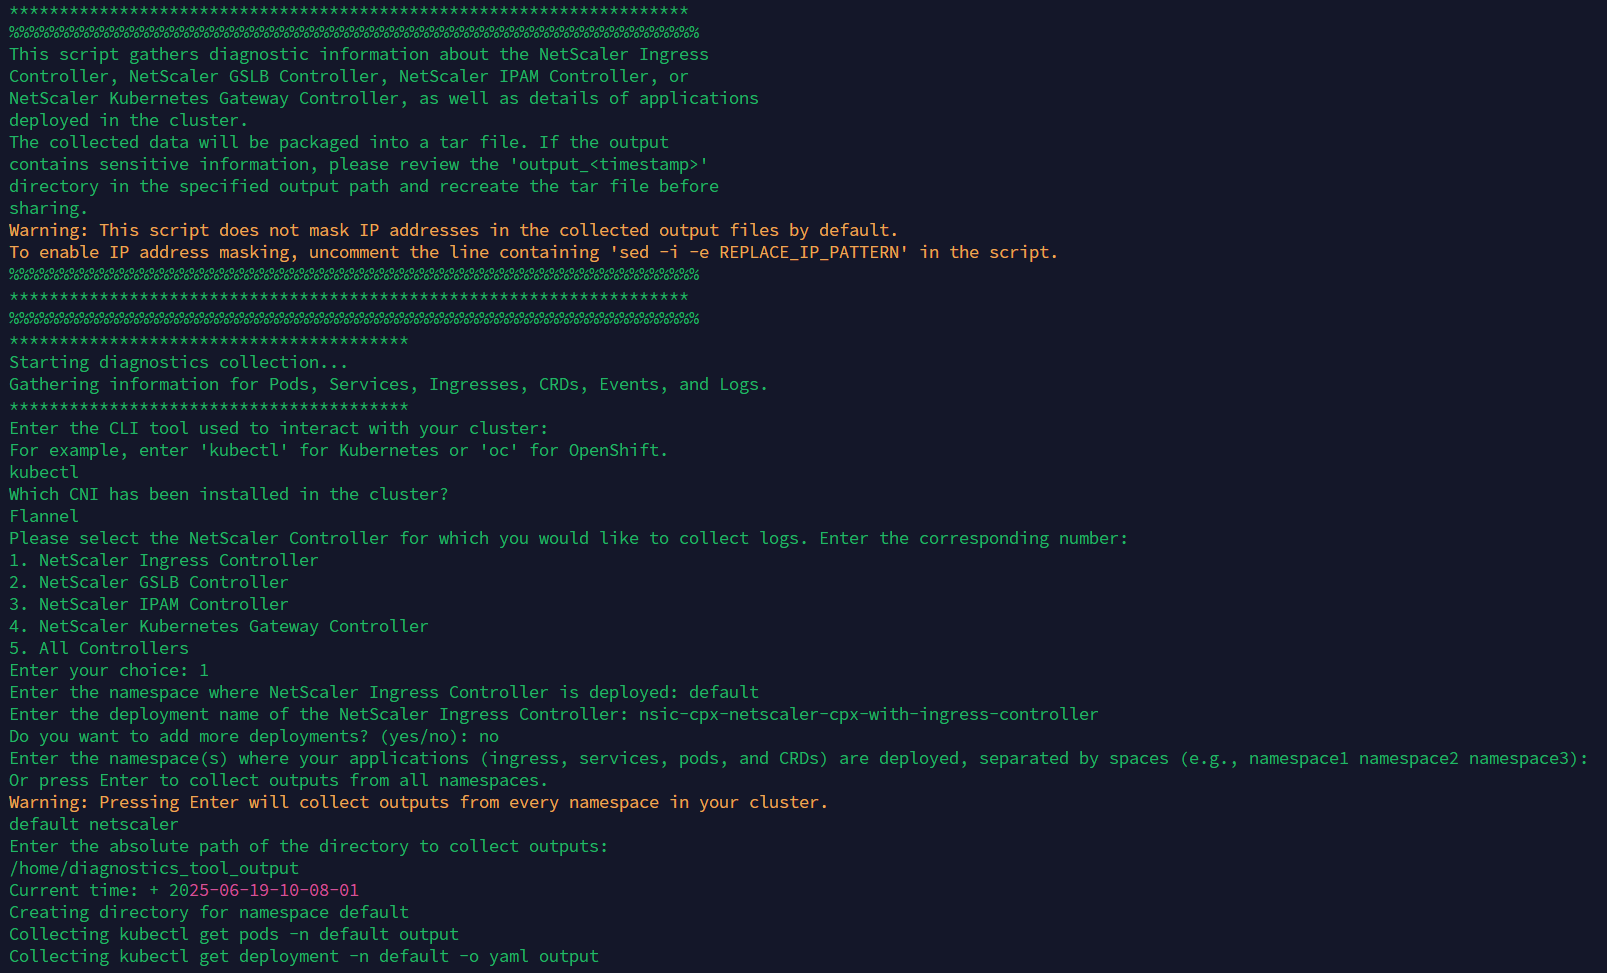
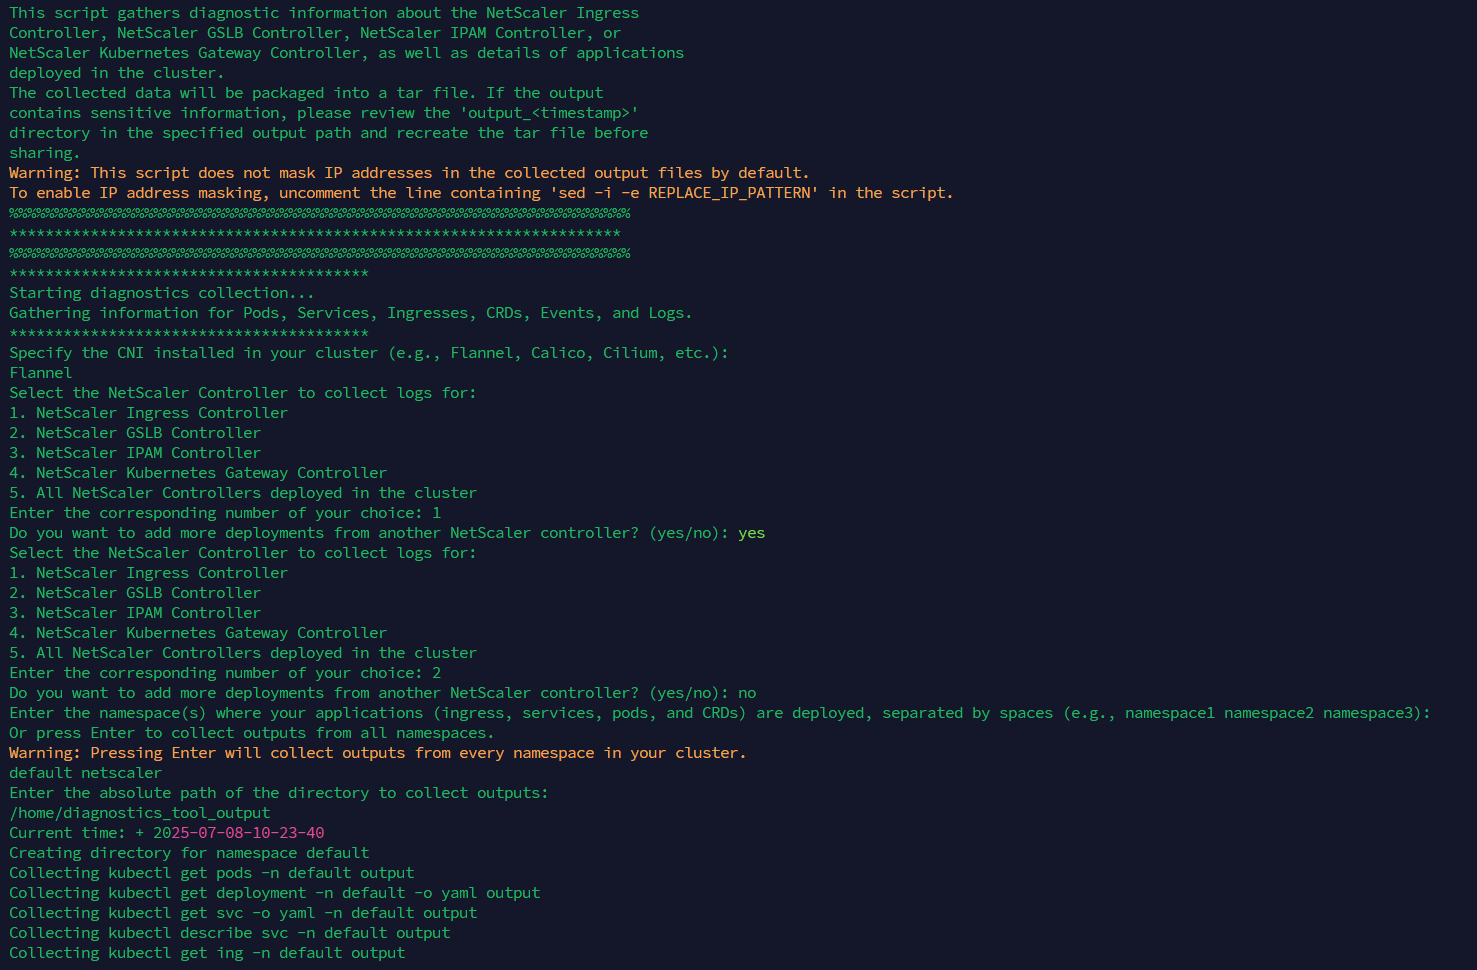
Updating the diagnostic tool

diff --git a/diagnostics_tool/README.md b/diagnostics_tool/README.md
@@ -1,8 +1,8 @@
 # Troubleshooting NetScaler Controller and Applications Deployed in a Kubernetes Cluster
 
-This diagnostic tool is a shell script designed to gather information related to the NetScaler Ingress Controller, NetScaler GSLB Controller, or NetScaler Kubernetes Gateway Controller, as well as applications deployed within a Kubernetes cluster. Based on the input provided by the user, the appropriate NetScaler Controller is selected. 
+This diagnostic tool is a shell script designed to collect information from NetScaler controllers namely the NetScaler Ingress Controller, NetScaler GSLB Controller, NetScaler IPAM Controller, and NetScaler Kubernetes Gateway Controller as well as from applications deployed in the cluster. Users can specify which NetScaler controller logs to collect or, choose to gather logs from all available controllers. Based on the input provided by the user, the appropriate NetScaler Controller is selected. 
 
-This tool requires the namespace, CNI, and output directory path as inputs to extract the necessary information. The collected data is stored in a tar file format within the specified output directory. If any sensitive information is identified that should not be shared, users are advised to review the `output_<timestamp>` directory under the specified output directory path and recreate the tar file before sharing.
+This tool requires the following inputs: the CNI type, the namespace where applications are deployed, and the output directory path. All collected diagnostic data is saved as a tar archive in the specified output directory. Before sharing, users should review the `output_<timestamp>` directory within the output path to ensure no sensitive information is included, and recreate the tar file if necessary.
 
 ## Usage Instructions
 
